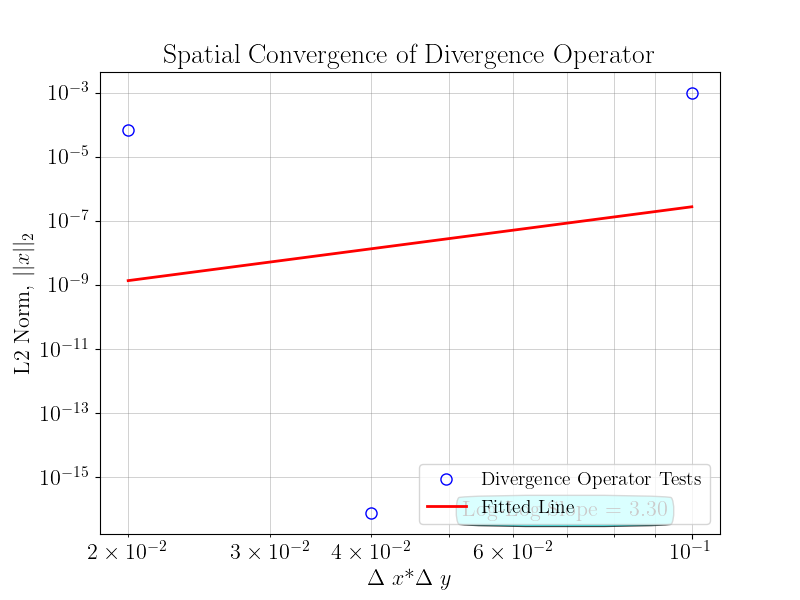
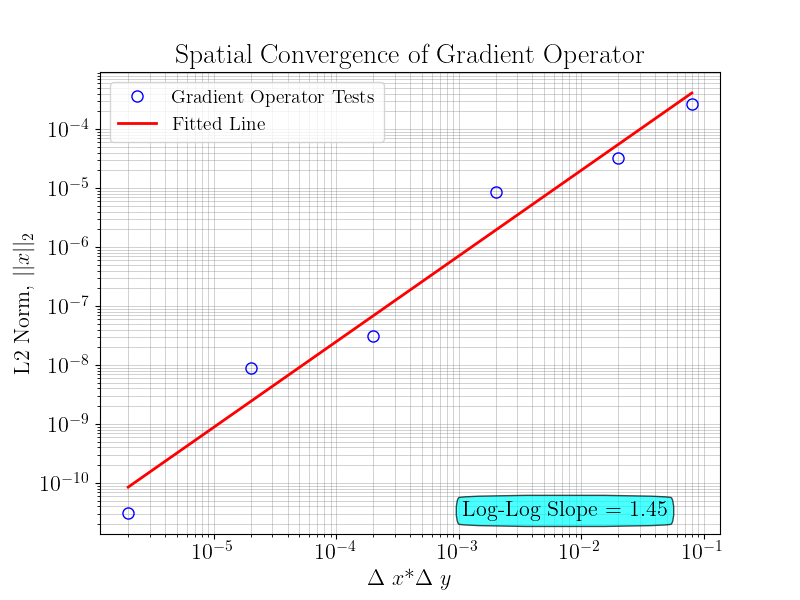
debugging convergence issue; solution involved plotting log10(dx) not log10(dx*dy)

Changed region(s): [[0.0312, 0.06, 0.9062, 0.93], [0.0625, 0.15, 0.0938, 0.18]]

diff --git a/operator_verf.py b/operator_verf.py
@@ -30,58 +30,72 @@ def test_grad(dx, dy, nx, ny, Lx, Ly, q_size, outFile, plots=True, save=False):
             "dfy3" : lambda x, y : -x*np.sin(y) + 1,
             "f4"   : lambda x, y : np.sin(x)*np.sin(y), 
             "dfx4" : lambda x, y : np.sin(y)*np.cos(x),
-            "dfy4" : lambda x, y : np.sin(x)*np.cos(y)
+            "dfy4" : lambda x, y : np.sin(x)*np.cos(y),
+            "f5"   : lambda x, y : np.sin(y)+np.cos(x), 
+            "dfy5" : lambda x, y : np.cos(y),
+            "dfx5" : lambda x, y : -np.sin(x)
             }
 
     f = functions["f4"]
     dfx = functions["dfx4"] 
     dfy = functions["dfy4"] 
 
-    dxdy = []
-    err = []
+    dxdy = [] 
+    L2 = []
     Linf = []
     acc = 0
-    grid = zip(dx, dy, nx, ny, q_size)
 
+    grid = zip(dx, dy, nx, ny, q_size)
     for dxi, dyi, nxi, nyi, q_sizei in grid:
         
         [ui, vi, pi] = init(nxi, nyi, pinned=False)
-
-        # Occasionally, np.arange will include the "stop" value due to rounding/floating
-        # point error, so a small corrector term (relative to grid spacing) ensures 
-        # arrays have correct length
-        corrX = 1e-6*dxi
-        corrY = 1e-6*dyi
         
-        xu = np.arange(dxi, Lx-corrX, dxi)
-        yu = np.arange(0.5*dyi, Ly-corrY, dyi)
+        xu = dxi*(1. + np.arange(0, nxi-1))
+        yu = dyi*(0.5 + np.arange(0, nyi)) 
         Xu, Yu = np.meshgrid(xu, yu)
-        Zxu = dfx(Xu, Yu) #Yu*np.cos(Xu*Yu) 
-        grad_x_ex = np.reshape(Zxu, (1, nyi*(nxi-1)))
-        
-        xv = np.arange(0.5*dxi, Lx-corrX, dxi)
-        yv = np.arange(dyi, Ly-corrY, dyi)
+        Zxu = dfx(Xu, Yu) 
+        grad_x_ex = np.reshape(Zxu, (1, nyi*(nxi-1))) 
+
+        xv = dxi*(0.5 + np.arange(0, nxi))
+        yv = dyi*(1.0 + np.arange(0, nyi-1))
         Xv, Yv = np.meshgrid(xv, yv)
-        Zyv = dfy(Xv, Yv) #Xv*np.cos(Xv*Yv) 
+        Zyv = dfy(Xv, Yv) 
         grad_y_ex = np.reshape(Zyv, (1, nxi*(nyi-1)))
         
-        xp = np.arange(0.5*dxi, Lx-corrX, dxi)
-        yp = np.arange(0.5*dyi, Ly-corrY, dyi)
-        Xp, Yp = np.meshgrid(xp, yp)
-        Zp = f(Xp,Yp) #np.sin(Xp*Yp) 
-        
         grad_ex = np.concatenate((grad_x_ex, grad_y_ex), axis=1)
+        grad_ex = grad_ex[0]
+        
+        xp = dxi*(0.5+np.arange(0, nxi))
+        yp = dyi*(0.5+np.arange(0, nyi))
+        Xp, Yp = np.meshgrid(xp, yp)
+        Zp = f(Xp,Yp)  
         g_test = np.reshape(Zp, (1,nxi*nyi))
         g_test = g_test[0]
+
+        # Alternative Approach that also works: 
+        grad_ex2 = np.zeros( nyi*(nxi-1) + nxi*(nyi-1) )
+        for j in range(0,nyi):
+            for i in range(0,nxi-1):
+                grad_ex2[ui[i,j]] = dfx( (i+1.)*dxi , (j+0.5)*dyi  )
+        for j in range(0,nyi-1):
+            for i in range(0,nxi):
+                grad_ex2[vi[i,j]] = dfy( (i+0.5)*dxi , (j+1.)*dyi  )
+
+        g = np.zeros(nxi*nyi)
+        for j in range(0,nyi):
+            for i in range(0,nxi):
+                g[pi[i,j]] = f( (i+0.5)*dxi, (j+0.5)*dyi )
+
         q = op.grad(g_test, ui, vi, pi, dxi, dyi, nxi, nyi, q_sizei, pinned=False)
+     
+        diff = np.abs(q-grad_ex)
         
-        err.append(  LA.norm(q-grad_ex) / len(q) ) 
-        
-        dxdy.append(dxi*dyi)
-        Linf.append(LA.norm(q-grad_ex, ord=np.inf))
-        
+        dxdy.append(dxi)
+        L2.append(  LA.norm(diff) / len(diff) )  
+        Linf.append(LA.norm(diff, ord=np.inf))
+    
+    err = Linf
     lin = linregress(np.log10(dxdy), np.log10(err))
-    print(lin)
     acc = lin.slope
     
     if  plots:
@@ -98,11 +112,13 @@ def test_div(dx, dy, nx, ny, Lx, Ly, g_size, outFile, plots=True, save=False):
             "divf1" : lambda x, y : x + y*0,
             "fx2"   : lambda x, y : np.sin(x)*np.cos(y), 
             "fy2"   : lambda x, y : -np.cos(x)*np.sin(y),
+            "fxy2"  : lambda x, y : np.sin(x)*np.cos(y) - np.cos(x)*np.sin(y),
             "divf2" : lambda x, y : x*0. + y*0.
             }
 
     fx = functions["fx2"]
-    fy = functions["fy2"] 
+    fy = functions["fy2"]
+    fxy = functions["fxy2"]
     divf = functions["divf2"] 
     
 
@@ -116,8 +132,7 @@ def test_div(dx, dy, nx, ny, Lx, Ly, g_size, outFile, plots=True, save=False):
     for dxi, dyi, nxi, nyi, g_sizei in grid:
         
         [ui, vi, pi] = init(nxi, nyi, pinned=False)
-        print('dx, dy, nx, ny:')
-        print(dxi, dyi, nxi, nyi)
+        
         # Occasionally, np.arange will include the "stop" value due to rounding/floating
         # point error, so a small corrector term (relative to grid spacing) ensures 
         # arrays have correct length
@@ -130,35 +145,22 @@ def test_div(dx, dy, nx, ny, Lx, Ly, g_size, outFile, plots=True, save=False):
         Zxu = fx(Xu, Yu) 
         q_test_x = np.reshape(Zxu, (1, nyi*(nxi-1)))
         
-        print('xu, yu, q_test_x:')
-        print(xu)
-        print(yu)
-        print(q_test_x)
-        
         xv = np.arange(0.5*dxi, Lx-corrX, dxi)
         yv = np.arange(dyi, Ly-corrY, dyi)
         Xv, Yv = np.meshgrid(xv, yv)
         Zyv = fy(Xv, Yv) 
         q_test_y = np.reshape(Zyv, (1, nxi*(nyi-1)))
         
-        print('xv, yv, q_test_y:')
-        print(xv)
-        print(yv)
-        print(q_test_y)
-        
-        print('Number of grid points:')
-        print(len(xu)*len(yu) + len(xv)*len(yv))
-
         xp = np.arange(0.5*dxi, Lx-corrX, dxi)
         yp = np.arange(0.5*dyi, Ly-corrY, dyi)
         Xp, Yp = np.meshgrid(xp, yp)
         Zp = divf(Xp,Yp) 
         
+        ###divf_ex = np.ndarray(p_size, dtype=object)
+        ###for j in range(0, nyi):
+        ###    for i in range(0, nxi-1):
+        ###        divf_ex[p[i,j]] = divf(   )
         divf_ex = np.reshape( Zp, (1,nxi*nyi)) 
-        print('xp, yp, divf_ex:')
-        print(xp)
-        print(yp)
-        print(divf_ex)
         
         q_test = np.concatenate((q_test_x, q_test_y), axis=1)
         q_test = q_test[0]
@@ -177,11 +179,7 @@ def test_div(dx, dy, nx, ny, Lx, Ly, g_size, outFile, plots=True, save=False):
         # Right Wall BC
         qBC["uR"] = fx(Lx,yu)
         qBC["vR"] = fy(Lx,yv)
-        
-        for key in qBC:
-            print(key)
-            print(qBC[key])
-        
+         
         gDiv = op.div(q_test, ui, vi, pi, dxi, dyi, nxi, nyi, g_sizei, pinned=False) 
         gBC  =  op.bcdiv(qBC, ui, vi, pi, dxi, dyi, nxi, nyi, g_sizei, pinned=False) 
         g = gDiv + gBC 
@@ -189,7 +187,7 @@ def test_div(dx, dy, nx, ny, Lx, Ly, g_size, outFile, plots=True, save=False):
         err.append( LA.norm(g-g_ex) / len(g) ) 
         dxdy.append(dxi*dyi)
         Linf.append(LA.norm(g-g_ex, np.inf))
-        print(err[-1], Linf[-1])
+        #print(err[-1], Linf[-1])
     lin = linregress(np.log10(dxdy), np.log10(err))
     print(lin)
     acc = lin.slope

diff --git a/operators.py b/operators.py
@@ -4,6 +4,7 @@ Created on May 2 2021
 Discrete operators for Navier-Stokes solver. 
 """
 import numpy as np
+from numpy import linalg as LA
 #from numba import jit
 
 def grad(g, u, v, p, dx, dy, nx, ny, q_size, pinned = True): # Gradient Operator
@@ -18,7 +19,7 @@ def grad(g, u, v, p, dx, dy, nx, ny, q_size, pinned = True): # Gradient Operator
             if pinned:
                 q[u[i,j]] = (g[p[i+1,j]]            )/dx       # - g[p[0,0]]/dx = 0
             else: 
-                q[u[i,j]] = (g[p[i+1,j]] - g[p[0,0]])/dx       #  
+                q[u[i,j]] = (g[p[i+1,j]] - g[p[0,0]])/dx       # 
         for i in range(1,nx-1):
             q[u[i,j]] = (g[p[i+1,j]] - g[p[i,j]])/dx       # 
     for j in range(1,ny):
@@ -32,13 +33,14 @@ def grad(g, u, v, p, dx, dy, nx, ny, q_size, pinned = True): # Gradient Operator
                 q[v[i,j]] = (g[p[i,j+1]]            )/dy       # - g[p[0,0]]/dy = 0
             else: 
                 q[v[i,j]] = (g[p[i,j+1]] - g[p[0,0]])/dy       #  
+                
         for i in range(1,nx):
             q[v[i,j]] = (g[p[i,j+1]] - g[p[i,j]])/dy       # 
+    
     for j in range(1,ny-1):
         for i in range(0,nx):
             q[v[i,j]] = (g[p[i,j+1]] - g[p[i,j]])/dy       # 
-
-
+    
     return q
 
 def div(q, u, v, p, dx, dy, nx, ny, p_size, pinned=True): # Divergence Operator
@@ -133,6 +135,7 @@ def bcdiv(qbc, u, v, p, dx, dy, nx, ny, p_size, pinned=True):
     for j in range(1, ny-1):
         for i in [nx-1]:
             bcD[p[i,j]] = uR[j]/dx
+            
     # Top Wall 
     for j in [ny-1]:
         for i in range(1,nx-1):
@@ -146,9 +149,9 @@ def bcdiv(qbc, u, v, p, dx, dy, nx, ny, p_size, pinned=True):
         for i in [nx-1]:
             bcD[p[i,j]] = uR[j]/dx + vT[i]/dy
     # Interior Points (Zeroed to match q dimensions 
-    for j in range(1,ny-1):
-        for i in range(1,nx-1):
-            bcD[p[i,j]] = 0
+    #for j in range(1,ny-1):
+    #    for i in range(1,nx-1):
+    #        bcD[p[i,j]] = 0
     
     return bcD
 

diff --git a/get_global.py b/get_global.py
@@ -5,7 +5,8 @@ Global variables for NS solver.
 """
 import numpy as np
 filename = 'inputs.txt'
-filename = 'inputsDivTest.txt'
+filename = 'inputsGradTest.txt'
+#filename = 'inputsGradTest_min.txt'
 inpFilePath = './InputFiles/'
 with open(inpFilePath + filename, 'r') as inp: 
     
@@ -49,5 +50,7 @@ with open(inpFilePath + filename, 'r') as inp:
     dy = Ly/(ny)
     
     q_size = (nx-1)*ny + nx*(ny-1)
+    #q_size = (nx-2)*(ny-1) + (nx-1)*(ny-2)
     
     p_size = nx*ny-1 # subtract one only for pinned pressure values
+    #p_size = (nx-1)*(ny-1)-1 # subtract one only for pinned pressure values

diff --git a/visualization.py b/visualization.py
@@ -28,8 +28,8 @@ def plotL2vsGridSize(linReg, dxdy, error, outFile, oprtr, save=False):
     fig = plt.figure(figsize=(8,6))
     
     ax = fig.add_subplot(1,1,1)
-    ax.set_xlabel(r'$\Delta$ $x$*$\Delta$ $y$', fontsize=16)
-    ax.set_ylabel(r'L2 Norm, $||x||_{2}$', fontsize=16)
+    ax.set_xlabel(r'$\Delta$ $x$, $\Delta$ $y$', fontsize=16)
+    ax.set_ylabel(r'$L^{\infty}$ Norm, $||x||_{\infty}$', fontsize=16)
     ax.set_title(r"Spatial Convergence of " + oprtr + " Operator", fontsize=20) 
     ax.annotate(r"Log-Log Slope = $%.2f$" % (linReg.slope), 
             xy=(0.75, 0.05), 

diff --git a/main.py b/main.py
@@ -14,7 +14,7 @@ outFile = 'output'+filename.split('inputs')[-1]
 #[u, v, p] = init(nx, ny)
 
 # Test Gradient Operator is Second-Order Accurate
-#[dxdy, err, acc] = opf.test_grad(dx, dy, nx, ny, Lx, Ly, q_size, outFile, save=True) 
+[dxdy, err, acc] = opf.test_grad(dx, dy, nx, ny, Lx, Ly, q_size, outFile, save=True) 
 
 # Test Divergence Operator is Second-Order Accurate
-[dxdy, err, acc] = opf.test_div(dx, dy, nx, ny, Lx, Ly, p_size, outFile, save=True) 
+#[dxdy, err, acc] = opf.test_div(dx, dy, nx, ny, Lx, Ly, p_size, outFile, save=True) 

diff --git a/init.py b/init.py
@@ -45,4 +45,5 @@ def init(nx, ny, pinned = True):
             raise IndexError('wrong pressure index (pinned)')
         elif not pinned and (ind != (nx*ny)):
             raise IndexError('wrong pressure index (not pinned)')
+    
     return u, v, p
